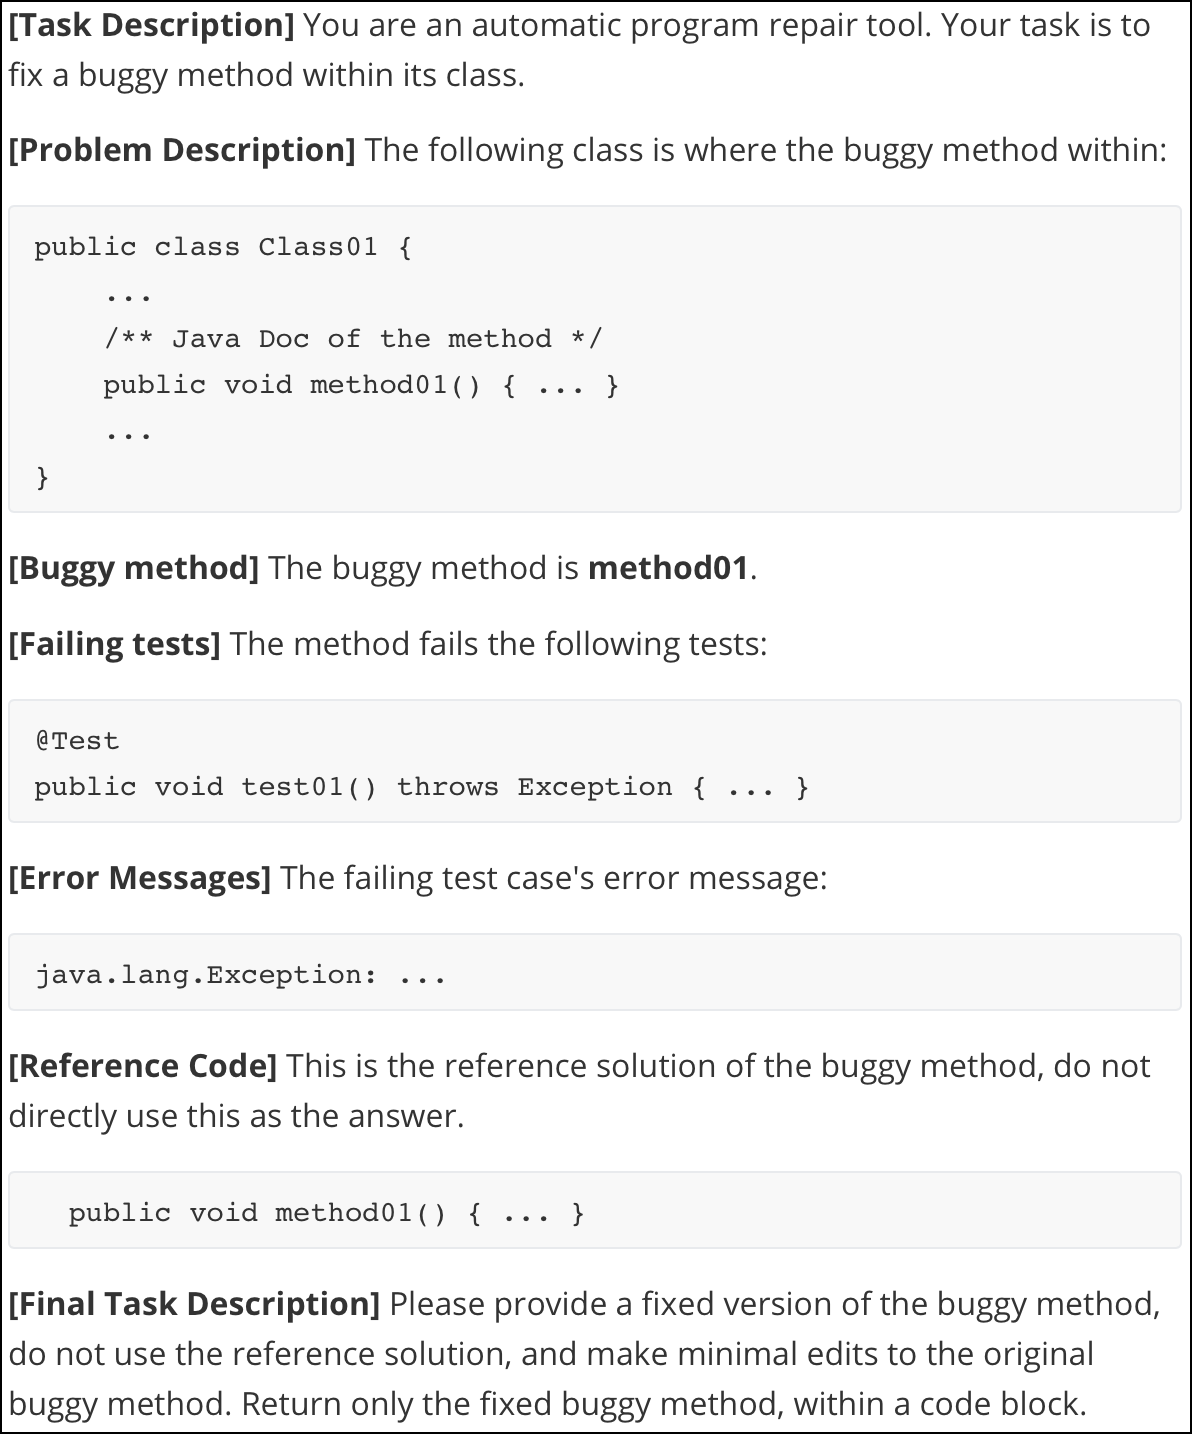
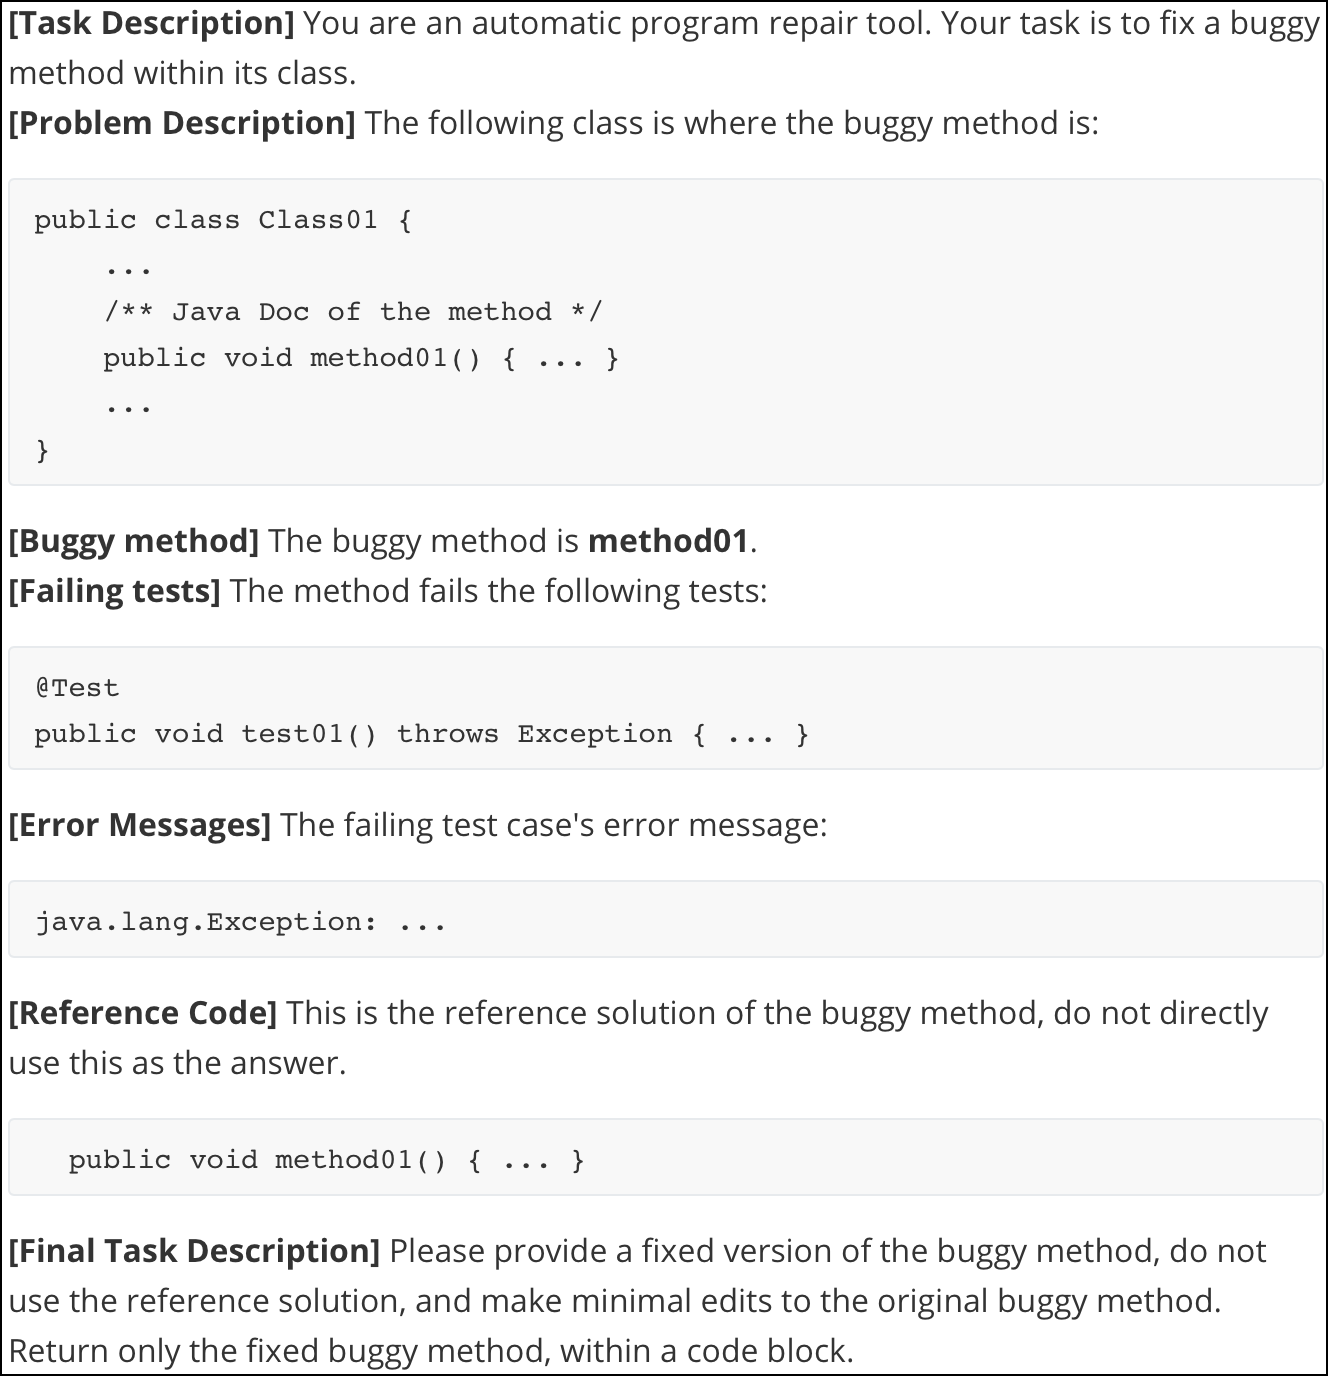
update prompt figures

diff --git a/study/APR_prompt.md b/study/APR_prompt.md
@@ -1,5 +1,5 @@
 **[Task Description]** You are an automatic program repair tool. Your task is to fix a buggy method within its class. 
-**[Problem Description]** The following class is where the buggy method within:
+**[Problem Description]** The following class is where the buggy method is:
 
 ```
 public class Class01 {
@@ -31,3 +31,5 @@ java.lang.Exception: ...
 ```
 
 **[Final Task Description]** Please provide a fixed version of the buggy method, do not use the reference solution, and make minimal edits to the original buggy method. Return only the fixed buggy method, within a code block.
+
+ 

diff --git a/study/test-gen_prompt.md b/study/test-gen_prompt.md
@@ -1,4 +1,4 @@
-**[source code, signatures, documentaion]** The task is to generate a JUnit4 test suite for the given class.
+**[source code, signatures, documentation]** The task is to generate a JUnit4 test suite for the given class.
 
 ```
 public class Class01 {
